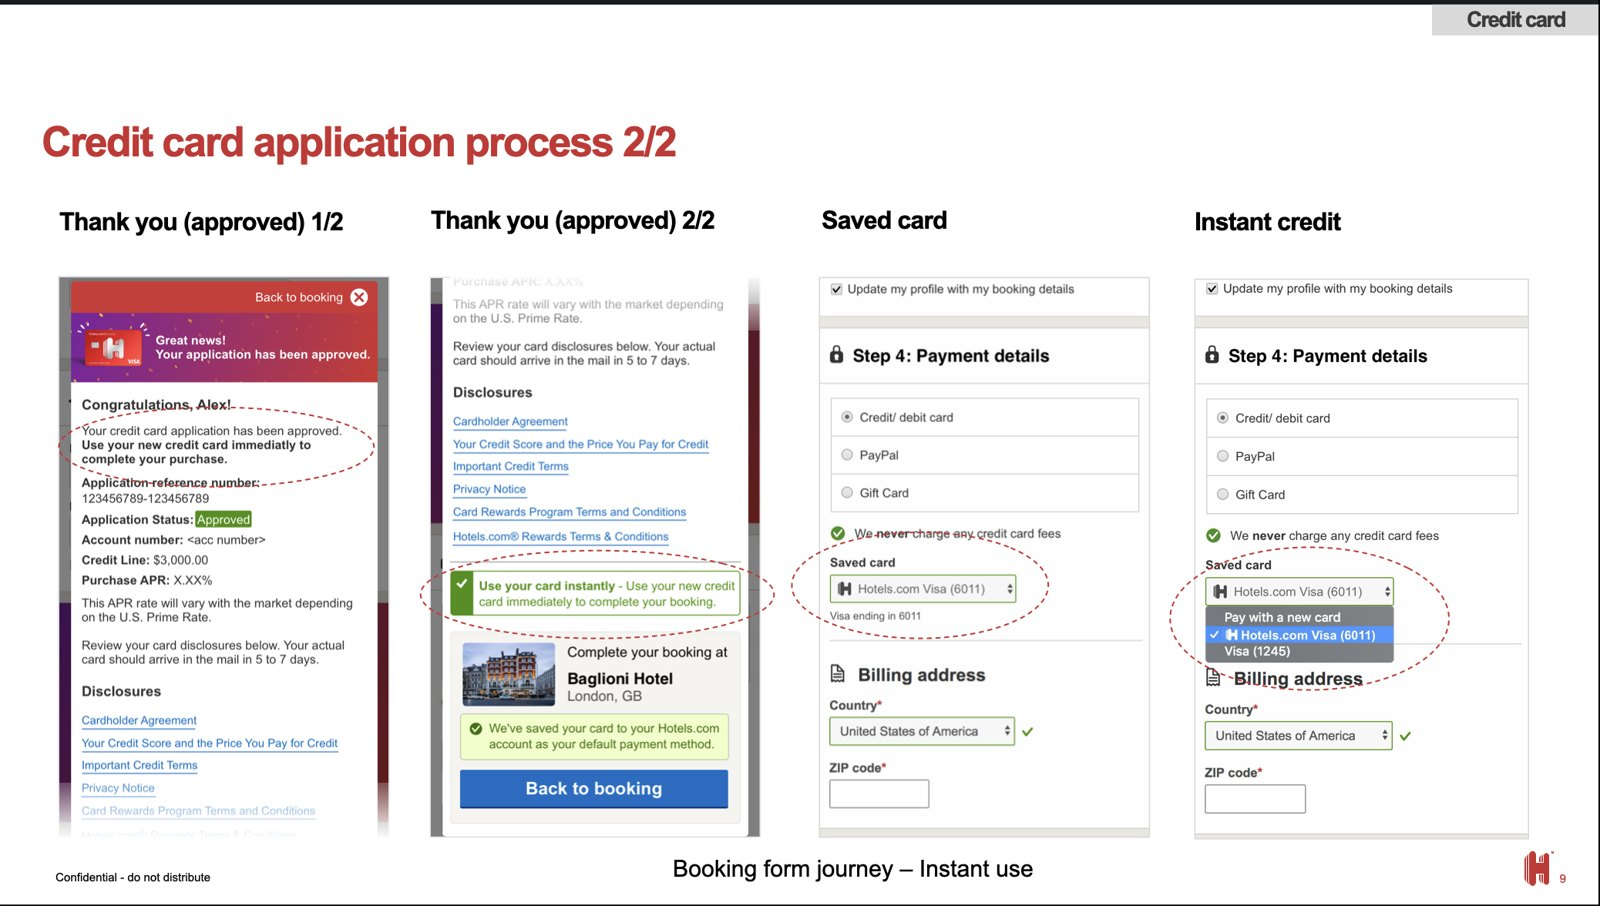
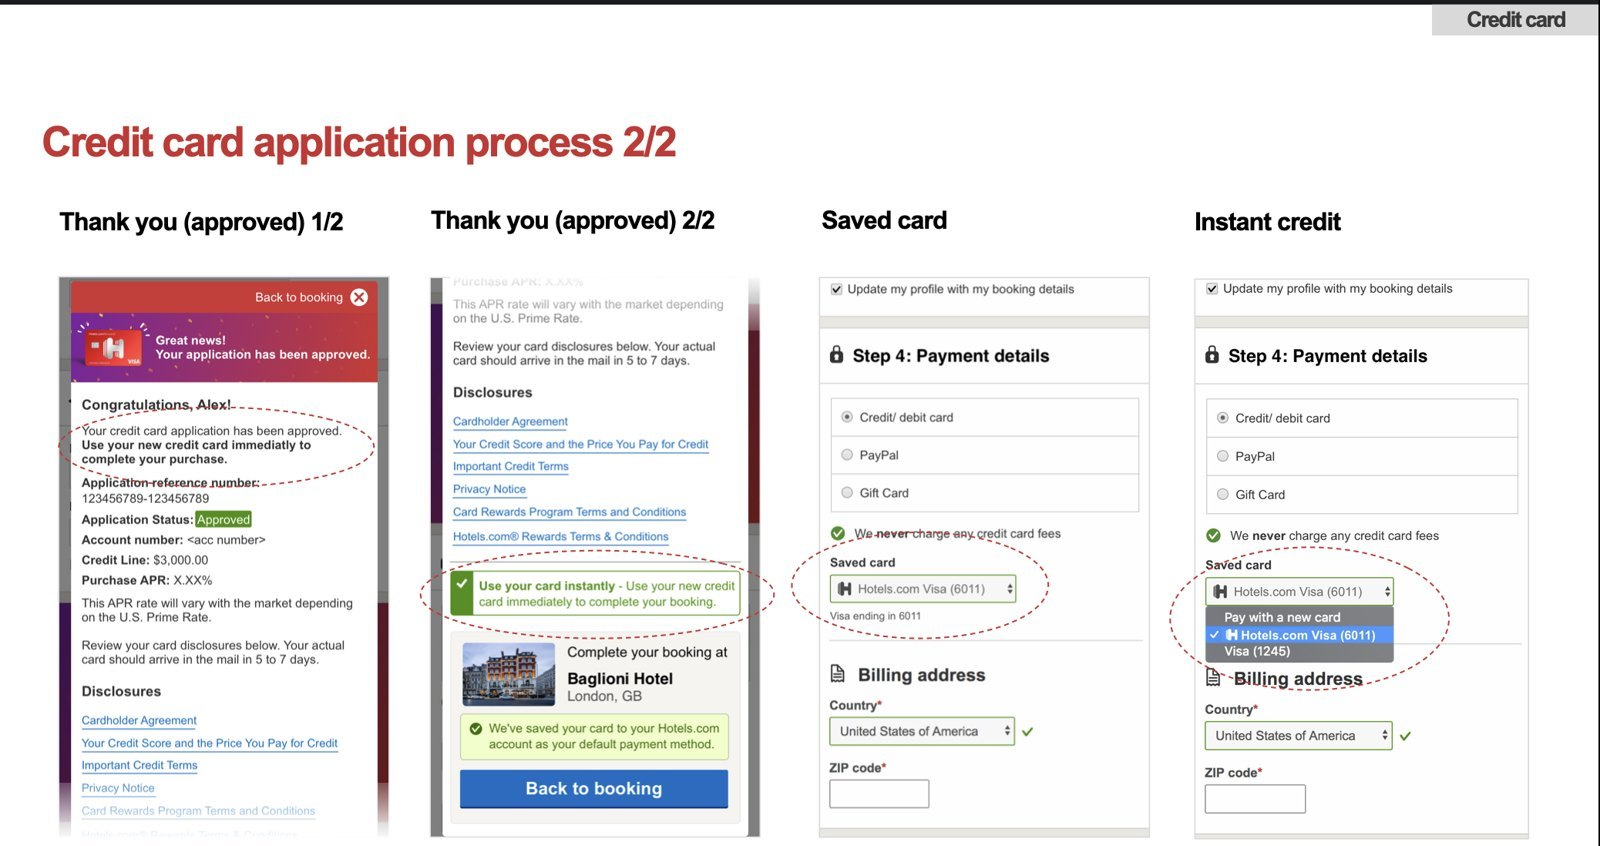
Crop confidential footer from card offer image
Claude-Session: https://claude.ai/code/session_01CJsRGXUtQTrvnDXWt471hY

diff --git a/index.html b/index.html
@@ -83,7 +83,7 @@
       <p class="fig"><span class="n">8%</span><span class="l">increase in conversion, measured at the time, from homepage search through to checkout</span></p>
     </a></li>
     <li data-craft="5" data-lead="5"><a href="./work/card-offer-in-checkout.html">
-      <figure class="slot" data-r="thumb"><span class="name">Booking form journey, instant use</span><img src="./images/work/card-offer-module.jpg" alt="Internal slide showing the booking form journey after a card is approved: the approval screens, then a saved card and an instant credit option in the payment details" width="1600" height="906" loading="lazy"></figure>
+      <figure class="slot" data-r="thumb"><span class="name">Booking form journey, instant use</span><img src="./images/work/card-offer-module.jpg" alt="Internal slide showing the booking form journey after a card is approved: the approval screens, then a saved card and an instant credit option in the payment details" width="1600" height="846" loading="lazy"></figure>
       <div><p class="when">Hotels.com, 2018 to 2022</p><h3>A credit card offer inside checkout</h3>
         <p class="line">Five rounds of testing on one module, in the most conversion-sensitive page of the site.</p>
         <p class="angle lens-craft">I was the only designer on the card, from the first research brief to the last test.</p>
